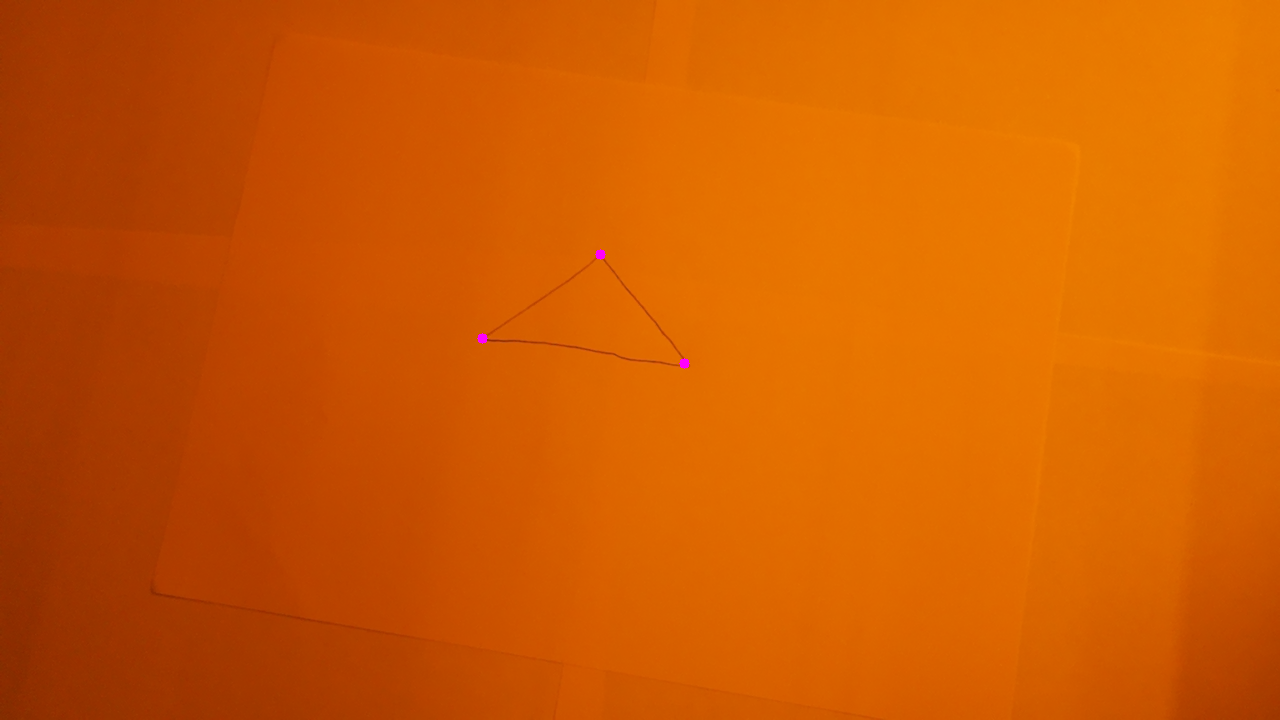
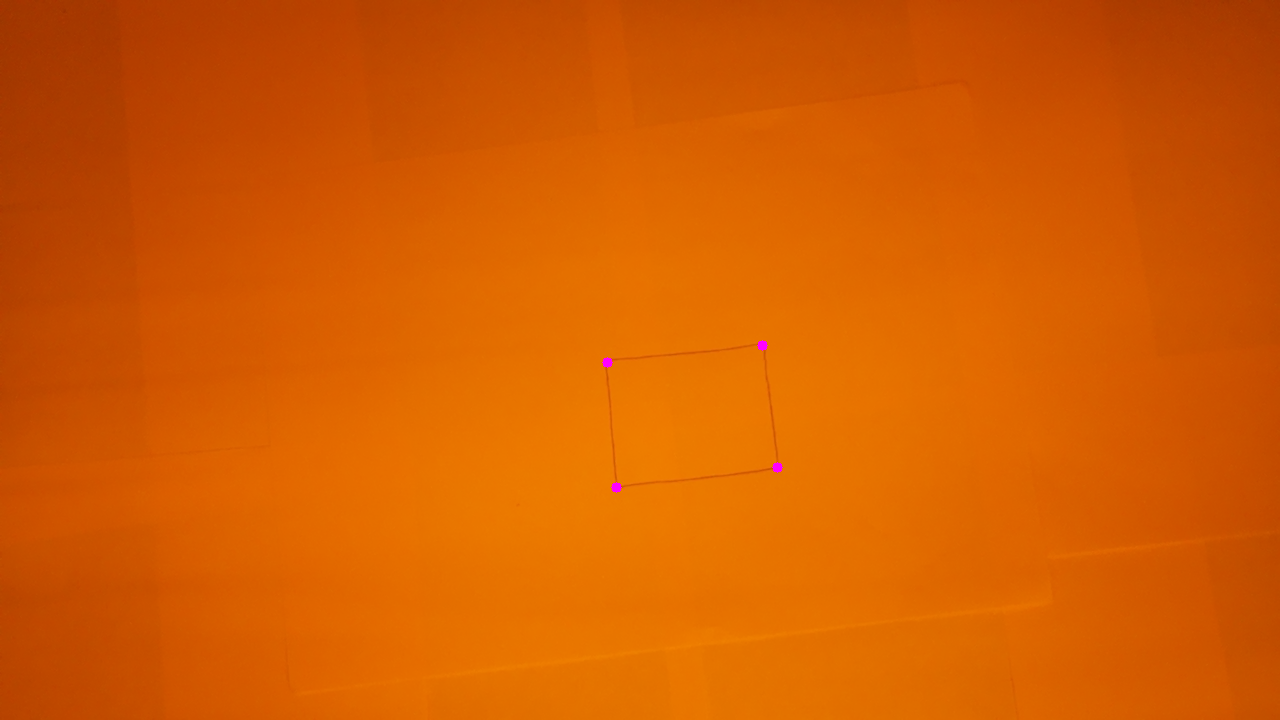
Decision to errase the circle and square.

diff --git a/detect_shapes.py b/detect_shapes.py
@@ -12,51 +12,6 @@ def sort_corners(corners):
     sorted_corners = sorted(corners, key=lambda x: angle_from_centroid(x))
     return sorted_corners
 
-def is_square(corners, tolerance=1e-2):
-    if len(corners) != 4:
-        return False
-    
-    corners = sort_corners(corners)
-
-    # Calculate edge lengths
-    def calculate_distance(p1, p2):
-        return np.linalg.norm(np.array(p1) - np.array(p2))
-
-    edges = [
-        calculate_distance(corners[0], corners[1]),
-        calculate_distance(corners[1], corners[2]),
-        calculate_distance(corners[2], corners[3]),
-        calculate_distance(corners[3], corners[0])
-    ]
-
-    if not all(abs(edges[0] - edge) < tolerance for edge in edges):
-        return False
-
-    # Calculate angles
-    def calculate_angle(v1, v2):
-        dot_product = np.dot(v1, v2)
-        magnitude = np.linalg.norm(v1) * np.linalg.norm(v2)
-        return np.degrees(np.arccos(dot_product / magnitude))
-
-    vectors = [
-        np.array(corners[1]) - np.array(corners[0]),
-        np.array(corners[2]) - np.array(corners[1]),
-        np.array(corners[3]) - np.array(corners[2]),
-        np.array(corners[0]) - np.array(corners[3])
-    ]
-
-    angles = [
-        calculate_angle(vectors[0], vectors[1]),
-        calculate_angle(vectors[1], vectors[2]),
-        calculate_angle(vectors[2], vectors[3]),
-        calculate_angle(vectors[3], vectors[0])
-    ]
-
-    if not all(abs(angle - 90) < tolerance for angle in angles):
-        return False
-
-    return True
-
 def is_rectangle(corners, tolerance=1e-2):
     if len(corners) != 4:
         return False
@@ -120,38 +75,6 @@ def is_triangle(corners, tolerance=1e-2):
 
     return True
 
-def is_circle(corners, tolerance=1e-2):
-    if len(corners) < 3:
-        return False
-
-    # Calculate the centroid of the points
-    centroid = np.mean([corner[0] for corner in corners], axis=0)
-
-    # Calculate distances of all points from the centroid
-    distances = [np.linalg.norm(np.array(corner[0]) - centroid) for corner in corners]
-
-    # Check if all distances are approximately the same
-    if not all(abs(distances[0] - distance) < tolerance for distance in distances):
-        return False
-
-    return True
-
-def is_circle(corners, tolerance=1e-2):
-    if len(corners) < 3:
-        return False
-
-    # Calculate the centroid of the points
-    centroid = np.mean([corner[0] for corner in corners], axis=0)
-
-    # Calculate distances of all points from the centroid
-    distances = [np.linalg.norm(np.array(corner[0]) - centroid) for corner in corners]
-
-    # Check if all distances are approximately the same
-    if not all(abs(distances[0] - distance) < tolerance for distance in distances):
-        return False
-
-    return True
-
 def is_empty(corners, tolerance=1e-2):
     if len(corners) == 0:
         return True
@@ -160,7 +83,7 @@ def is_empty(corners, tolerance=1e-2):
     if all(np.allclose(np.array(corner), 0, atol=tolerance) for corner in corners):
         return True
     
-    functions = [is_triangle, is_square, is_circle]
+    functions = [is_triangle, is_rectangle]
     for func in functions:
         if func(corners, tolerance):
             break
@@ -171,10 +94,8 @@ def is_empty(corners, tolerance=1e-2):
 
 def functions():
     return {
-        "square": is_square,
         "rectangle": is_rectangle,
         "triangle": is_triangle,
-        "circle": is_circle,
         "empty": is_empty
     }
 

diff --git a/create_pasword.py b/create_pasword.py
@@ -10,16 +10,16 @@ def create_password():
 def get_pasword():
     valid = False
     while not valid:
-        password = input("Insert password to create it (ex: t-s-c-t): ")
+        password = input("Insert password to create it (example: t-r-t is triangle then rectangle then triangle): ")
         if len(password)%2 == 0:
             print("Invalid password, the password has to have - in between the letters")
             continue
         for i, letter in enumerate(password):
-            if letter not in "t-sc":
+            if letter not in "t-r":
                 print("Invalid password, some of the letters weren't correct")
                 break
             if letter == "-":
-                if password[i-1] not in "tsc" or password[i + 1] not in "tsc":
+                if password[i-1] not in "tr" or password[i + 1] not in "tr":
                     print("Invalid password, the password has to have - in between the letters")
                     break
         else:

diff --git a/state_machine.py b/state_machine.py
@@ -1,4 +1,4 @@
-from detect_shapes import is_triangle, is_square, is_circle, is_empty
+from detect_shapes import functions
 class SecurityStateMachine:
     def __init__(self, password):
         """
@@ -32,12 +32,7 @@ class SecurityStateMachine:
         :return: True if the current state matches the expected state and the sequence completes, False otherwise.
         """
         # Map state names to corresponding validation functions
-        state_functions = {
-            'triangle': is_triangle,
-            'circle': is_circle,
-            'square': is_square,
-            'empty': is_empty
-        }
+        state_functions = functions()
 
         current_state = self.password[self.current_index]
 

diff --git a/Shi_tomasi.py b/Shi_tomasi.py
@@ -53,7 +53,7 @@ if __name__ == "__main__":
     path_ = join(path, r"JustDance_ComputerVision")
     paths = get_paths(path_, 4, "Patterns/test")
     images = load_images(paths)
-    max_corners, quality, min_distance, corner_color, radius = 5, 0.1, 7, (255, 0, 255), 5
+    max_corners, quality, min_distance, corner_color, radius = 4, 0.1, 7, (255, 0, 255), 5
     shi_tomasi_resutls = [shi_tomasi_corner_detection(img, max_corners, quality, min_distance, corner_color, radius) for img in images]
     shi_tomasi_corners = [i[1] for i in shi_tomasi_resutls]
     shi_tomasi_images = [i[0] for i in shi_tomasi_resutls]

diff --git a/SecuritySystem.py b/SecuritySystem.py
@@ -7,7 +7,6 @@ from state_machine import SecurityStateMachine
 
 def main():
     camera = format_camera()
-    fps = 60
     max_corners, quality, min_distance, corner_color, radius = 4, 0.5, 7, (255, 0, 255), 5
     password = read_password()
     state_machine = SecurityStateMachine(password)
@@ -22,7 +21,6 @@ def main():
         if result == True:
             sleep(1)
             break
-        sleep(1//fps)
     cv2.destroyAllWindows()
 
 def draw_result(frame, result):
